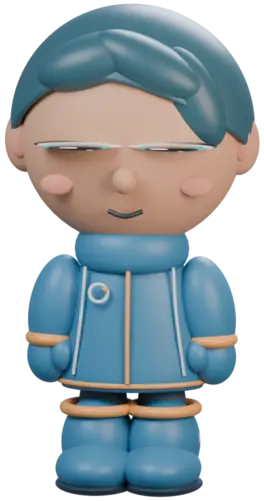
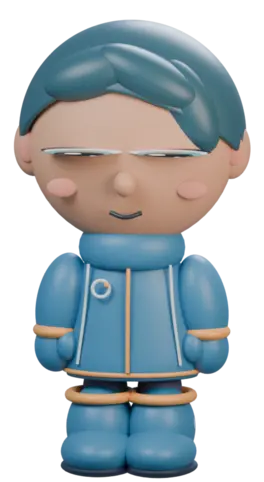
Let Milo walk, hop and look around along the bottom of the landing page
Milo now wanders left and right along the bottom edge with a waddling
step, stops to think, point or hop, jumps on a fast scroll, and cheers at
the finale. Adds the think and celebrate frames and re-crops all frames to
one shared box so the poses line up. Reduced motion keeps him still.

Claude-Session: https://claude.ai/code/session_013dEqqoPTqWVc8TwUmU8LoP

diff --git a/website/js/mate.js b/website/js/mate.js
@@ -1,61 +1,165 @@
-// Milo, docked at the bottom of the screen: blinks, waves when greeted,
-// says hi at the finale, and ducks out of the way of the footer.
+// Milo lives along the bottom of the screen. He wanders left and right with a
+// waddling step, stops to look around, point, or hop, blinks, waves when you
+// hover, says hi when clicked, jumps when you scroll fast, cheers at the
+// finale, and ducks out of the way of the footer. Reduced motion keeps him
+// standing still in his corner.
 (function () {
   var mate = document.querySelector("[data-mate]");
   if (!mate) return;
-  var btn = mate.querySelector("button");
+  var btn = mate.querySelector(".mate-btn");
+  var step = mate.querySelector(".mate-step");
   var bubble = mate.querySelector(".mate-bubble");
   var still = window.matchMedia("(prefers-reduced-motion: reduce)");
-  var lines = ["Hey! I'm Milo.", "Hold ⌃⌥ and ask me anything.", "I live in your notch."];
+  var wide = window.matchMedia("(min-width: 1300px)");
+  var lines = ["Hey! I'm Milo.", "Hold ⌃⌥ and ask me anything.", "I live in your notch.", "Wanna see a trick?"];
   var said = 0;
-  var busy = false;
-  var talkTimer;
 
-  function frame(name) { mate.setAttribute("data-frame", name); }
+  // x is Milo's offset from his home corner, always <= 0 (leftward).
+  var x = 0, target = 0, facing = 1, phase = 0, hopT = -1;
+  var mode = "idle"; // idle | walk | pose | talk
+  var hovered = false, away = false, last = 0, nextAt = 0, poseUntil = 0;
+  var lastScrollY = window.scrollY, lastScrollT = 0, hopCooldown = 0;
+
+  function frame(name) { if (mate.getAttribute("data-frame") !== name) mate.setAttribute("data-frame", name); }
+  function rand(a, b) { return a + Math.random() * (b - a); }
+
+  // How far left Milo may roam: a band at the bottom right on wide screens,
+  // most of the edge on narrow ones (where only his head shows), leaving room
+  // for his speech bubble.
+  function range() {
+    var w = window.innerWidth;
+    return wide.matches ? Math.min(w * 0.4, 520) : Math.max(0, w - 260);
+  }
+
+  function plan(now) {
+    if (still.matches) return;
+    var r = range(), roll = Math.random();
+    if (x < -40 && roll < 0.35) { walkTo(0); return; }
+    if (roll < 0.7) {
+      var t = -rand(0, r);
+      if (Math.abs(t - x) < 120) t = x < -r / 2 ? 0 : -r * rand(0.5, 1);
+      walkTo(t);
+    } else if (roll < 0.85) {
+      pose("think", now, 1600);
+    } else {
+      pose("celebrate", now, 700); hop(now);
+    }
+  }
+
+  function walkTo(t) { target = Math.max(-range(), Math.min(0, t)); mode = "walk"; mate.classList.add("walking"); frame("idle"); }
+  function pose(name, now, ms) { mode = "pose"; poseUntil = now + ms; frame(name); }
+  function hop(now) { if (!still.matches) hopT = now; }
+  function rest(now) {
+    mode = "idle"; mate.classList.remove("walking"); frame("idle");
+    nextAt = now + rand(3500, 8000);
+  }
+
+  function greet(text, now) {
+    mode = "talk"; poseUntil = now + 2600;
+    mate.classList.remove("walking");
+    bubble.textContent = text;
+    frame(text === "Say hey!" ? "celebrate" : "wave");
+    if (text === "Say hey!") hop(now);
+    mate.classList.add("talking", "awake");
+  }
+
+  function tick(now) {
+    var dt = Math.min(0.05, last ? (now - last) / 1000 : 0);
+    last = now;
+    var lift = 0, tilt = 0, squash = 1;
+
+    if (!away && !document.hidden) {
+      if (mode === "walk") {
+        var d = target - x, dir = d < 0 ? -1 : 1;
+        facing = dir;
+        var move = Math.min(Math.abs(d), 70 * dt);
+        x += dir * move;
+        phase += dt * 5.2; // steps per second, give or take
+        var s = Math.sin(phase * Math.PI);
+        lift = Math.abs(s) * 5;
+        tilt = s * 6 + dir * 3;
+        if (Math.abs(target - x) < 0.5) { x = target; rest(now); }
+      } else if (mode === "pose" || mode === "talk") {
+        if (now > poseUntil) {
+          if (mode === "talk") mate.classList.remove("talking", "awake");
+          rest(now);
+        }
+      } else if (mode === "idle" && !hovered) {
+        if (now > nextAt) plan(now);
+      }
+    }
+
+    if (hopT >= 0) {
+      var p = (now - hopT) / 650;
+      if (p >= 1) hopT = -1;
+      else {
+        // anticipate, jump, land
+        if (p < 0.15) squash = 1 - p * 0.5;
+        else if (p < 0.85) lift = Math.sin(((p - 0.15) / 0.7) * Math.PI) * 26;
+        else squash = 1 - (1 - p) * 0.4;
+      }
+    }
+
+    mate.style.setProperty("--x", x.toFixed(1) + "px");
+    step.style.transform = "translateY(" + (-lift).toFixed(1) + "px) rotate(" + tilt.toFixed(2) + "deg) scale(" + facing + "," + squash.toFixed(3) + ")";
+    requestAnimationFrame(tick);
+  }
 
   function blink() {
     setTimeout(function () {
-      if (!busy && !still.matches && !document.hidden) {
+      if (!still.matches && !document.hidden && mate.getAttribute("data-frame") === "idle") {
         frame("blink");
-        setTimeout(function () { if (!busy) frame("idle"); }, 150);
+        setTimeout(function () { if (mate.getAttribute("data-frame") === "blink") frame("idle"); }, 150);
       }
       blink();
-    }, 2600 + Math.random() * 3600);
+    }, rand(2600, 6200));
   }
 
-  function greet(text) {
-    busy = true;
-    clearTimeout(talkTimer);
-    bubble.textContent = text;
-    frame("wave");
-    mate.classList.add("talking", "awake");
-    talkTimer = setTimeout(function () {
-      mate.classList.remove("talking", "awake");
-      frame("idle");
-      busy = false;
-    }, 2600);
-  }
+  btn.addEventListener("click", function () { greet(lines[said++ % lines.length], performance.now()); });
+  btn.addEventListener("mouseenter", function () {
+    hovered = true;
+    if (mode === "walk" || mode === "idle") { mode = "idle"; mate.classList.remove("walking"); frame("wave"); }
+  });
+  btn.addEventListener("mouseleave", function () {
+    hovered = false;
+    if (mode === "idle") rest(performance.now());
+  });
 
-  btn.addEventListener("click", function () { greet(lines[said++ % lines.length]); });
-  btn.addEventListener("mouseenter", function () { if (!busy) frame("wave"); });
-  btn.addEventListener("mouseleave", function () { if (!busy) frame("idle"); });
+  // A fast scroll makes him jump.
+  window.addEventListener("scroll", function () {
+    var now = performance.now(), y = window.scrollY;
+    var v = Math.abs(y - lastScrollY) / Math.max(1, now - lastScrollT) * 1000;
+    lastScrollY = y; lastScrollT = now;
+    if (!still.matches && v > 3000 && now > hopCooldown && mode !== "talk") {
+      hopCooldown = now + 4000;
+      hop(now);
+    }
+  }, { passive: true });
 
   if ("IntersectionObserver" in window) {
     var footer = document.querySelector(".footer");
     if (footer) {
       new IntersectionObserver(function (entries) {
-        mate.classList.toggle("away", entries[0].isIntersecting);
+        away = entries[0].isIntersecting;
+        mate.classList.toggle("away", away);
       }).observe(footer);
     }
     var finale = document.querySelector(".finale h2");
     if (finale) {
-      var waved = false;
+      var cheered = false;
       new IntersectionObserver(function (entries) {
-        if (entries[0].isIntersecting && !waved) { waved = true; greet("Say hey!"); }
+        if (entries[0].isIntersecting && !cheered) { cheered = true; greet("Say hey!", performance.now()); }
       }, { threshold: 1 }).observe(finale);
     }
   }
 
+  window.addEventListener("resize", function () {
+    var r = range();
+    if (x < -r) { x = -r; target = Math.max(target, -r); }
+  });
+
   frame("idle");
+  nextAt = performance.now() + 2500;
+  requestAnimationFrame(tick);
   blink();
 })();

diff --git a/website/css/site.css b/website/css/site.css
@@ -539,28 +539,33 @@ kbd[data-key].down { transform: translateY(2px); border-bottom-width: 1px; backg
 @keyframes notch-dot { 0%, 60%, 100% { transform: none; opacity: 0.45; } 30% { transform: translateY(-3px); opacity: 1; } }
 @media (prefers-reduced-motion: reduce) { .notch-typing i { animation: none; opacity: 0.8; } }
 
-/* Milo, the futuristic mate, lives at the bottom of the screen.
-   Wide screens have room in the right gutter, so he stands there.
-   Narrower screens would put him over the text, so he only peeks over
-   the edge and stands up when hovered or tapped. Near the footer he ducks away. */
+/* Milo, the futuristic mate, lives along the bottom of the screen.
+   js/mate.js walks him left and right (--x), and drives his steps, hops and
+   leans on .mate-step. Wide screens show all of him. Narrower screens would put
+   him over the text, so only his head peeks over the edge as he wanders, and he
+   stands up when hovered or tapped. Near the footer he ducks away. */
 .mate {
   position: fixed; right: max(14px, env(safe-area-inset-right)); bottom: 0; z-index: 15;
-  width: 64px; pointer-events: none;
-  transform: translateY(60%); transition: transform 0.55s var(--ease);
+  width: 68px; pointer-events: none; transform: translate3d(var(--x, 0px), 0, 0);
 }
 .mate-btn {
   position: relative; display: block; width: 100%; padding: 0; border: 0; background: none;
   cursor: pointer; pointer-events: auto; -webkit-tap-highlight-color: transparent;
 }
 .mate-btn:focus-visible { outline-offset: -2px; border-radius: 40% 40% 12px 12px; }
-.mate-body { display: grid; animation: mate-bob 3.6s ease-in-out infinite; transform-origin: 50% 100%; }
-.mate-body img {
+.mate-pose { display: block; transform: translateY(58%); transition: transform 0.55s var(--ease); }
+.mate-body { display: block; animation: mate-breathe 3.4s ease-in-out infinite; transform-origin: 50% 100%; }
+.mate.walking .mate-body { animation: none; }
+.mate-step { display: grid; transform-origin: 50% 100%; will-change: transform; }
+.mate-step img {
   grid-area: 1 / 1; width: 100%; height: auto; opacity: 0;
   filter: drop-shadow(0 6px 10px rgba(14, 14, 15, 0.16));
 }
 .mate[data-frame="idle"] .mate-idle,
 .mate[data-frame="blink"] .mate-blink,
-.mate[data-frame="wave"] .mate-wave { opacity: 1; }
+.mate[data-frame="wave"] .mate-wave,
+.mate[data-frame="think"] .mate-think,
+.mate[data-frame="celebrate"] .mate-celebrate { opacity: 1; }
 .mate-bubble {
   position: absolute; right: 70%; bottom: calc(100% - 22px); white-space: nowrap;
   padding: 8px 12px; border-radius: 14px 14px 4px 14px; background: var(--ink); color: var(--paper);
@@ -568,15 +573,16 @@ kbd[data-key].down { transform: translateY(2px); border-bottom-width: 1px; backg
   transform-origin: 100% 100%; transition: opacity 0.2s, transform 0.3s var(--ease); pointer-events: none;
 }
 .mate.talking .mate-bubble { opacity: 1; transform: none; }
-.mate:focus-within, .mate.awake { transform: none; }
-@media (hover: hover) { .mate:hover { transform: none; } }
-.mate.away { transform: translateY(110%); }
+.mate:focus-within .mate-pose, .mate.awake .mate-pose { transform: none; }
+@media (hover: hover) { .mate-btn:hover .mate-pose { transform: none; } }
+.mate.away .mate-pose { transform: translateY(110%); }
 @media (min-width: 1300px) {
-  .mate { width: 88px; transform: none; }
+  .mate { width: 94px; }
+  .mate-pose { transform: none; }
 }
-@keyframes mate-bob { 0%, 100% { transform: none; } 50% { transform: translateY(-3px) rotate(-1deg); } }
+@keyframes mate-breathe { 0%, 100% { transform: none; } 50% { transform: translateY(-2px) scaleY(1.015) rotate(-0.8deg); } }
 @media (prefers-reduced-motion: reduce) {
-  .mate, .mate-bubble { transition: none; }
+  .mate-pose, .mate-bubble { transition: none; }
   .mate-body { animation: none; }
 }
 @media print { .mate { display: none; } }

diff --git a/website/index.html b/website/index.html
@@ -36,7 +36,7 @@
   <link rel="preconnect" href="https://fonts.googleapis.com">
   <link rel="preconnect" href="https://fonts.gstatic.com" crossorigin>
   <link href="https://fonts.googleapis.com/css2?family=Figtree:wght@400;500;600;700;800&family=JetBrains+Mono:wght@500&display=swap" rel="stylesheet">
-  <link rel="stylesheet" href="css/site.css?v=12">
+  <link rel="stylesheet" href="css/site.css?v=13">
   <script>document.documentElement.classList.add("js")</script>
   <script type="application/ld+json">
   {
@@ -512,11 +512,13 @@
   <div class="mate" data-mate data-frame="idle">
     <button class="mate-btn" type="button" aria-label="Say hi to Milo, the HeyMate character">
       <span class="mate-bubble" aria-live="polite"></span>
-      <span class="mate-body" aria-hidden="true">
-        <img class="mate-idle" src="assets/img/mate/milo-future-idle.webp" alt="" width="264" height="501">
-        <img class="mate-blink" src="assets/img/mate/milo-future-blink.webp" alt="" width="264" height="501">
-        <img class="mate-wave" src="assets/img/mate/milo-future-wave.webp" alt="" width="264" height="501">
-      </span>
+      <span class="mate-pose" aria-hidden="true"><span class="mate-body"><span class="mate-step">
+          <img class="mate-idle" src="assets/img/mate/milo-future-idle.webp" alt="" width="264" height="482">
+          <img class="mate-blink" src="assets/img/mate/milo-future-blink.webp" alt="" width="264" height="482">
+          <img class="mate-wave" src="assets/img/mate/milo-future-wave.webp" alt="" width="264" height="482">
+          <img class="mate-think" src="assets/img/mate/milo-future-think.webp" alt="" width="264" height="482">
+          <img class="mate-celebrate" src="assets/img/mate/milo-future-celebrate.webp" alt="" width="264" height="482">
+      </span></span></span>
     </button>
   </div>
 
@@ -525,6 +527,6 @@
   <script src="js/notch.js?v=7"></script>
   <script src="js/play.js?v=4"></script>
   <script src="js/downloads.js"></script>
-  <script src="js/mate.js"></script>
+  <script src="js/mate.js?v=2"></script>
 </body>
 </html>
